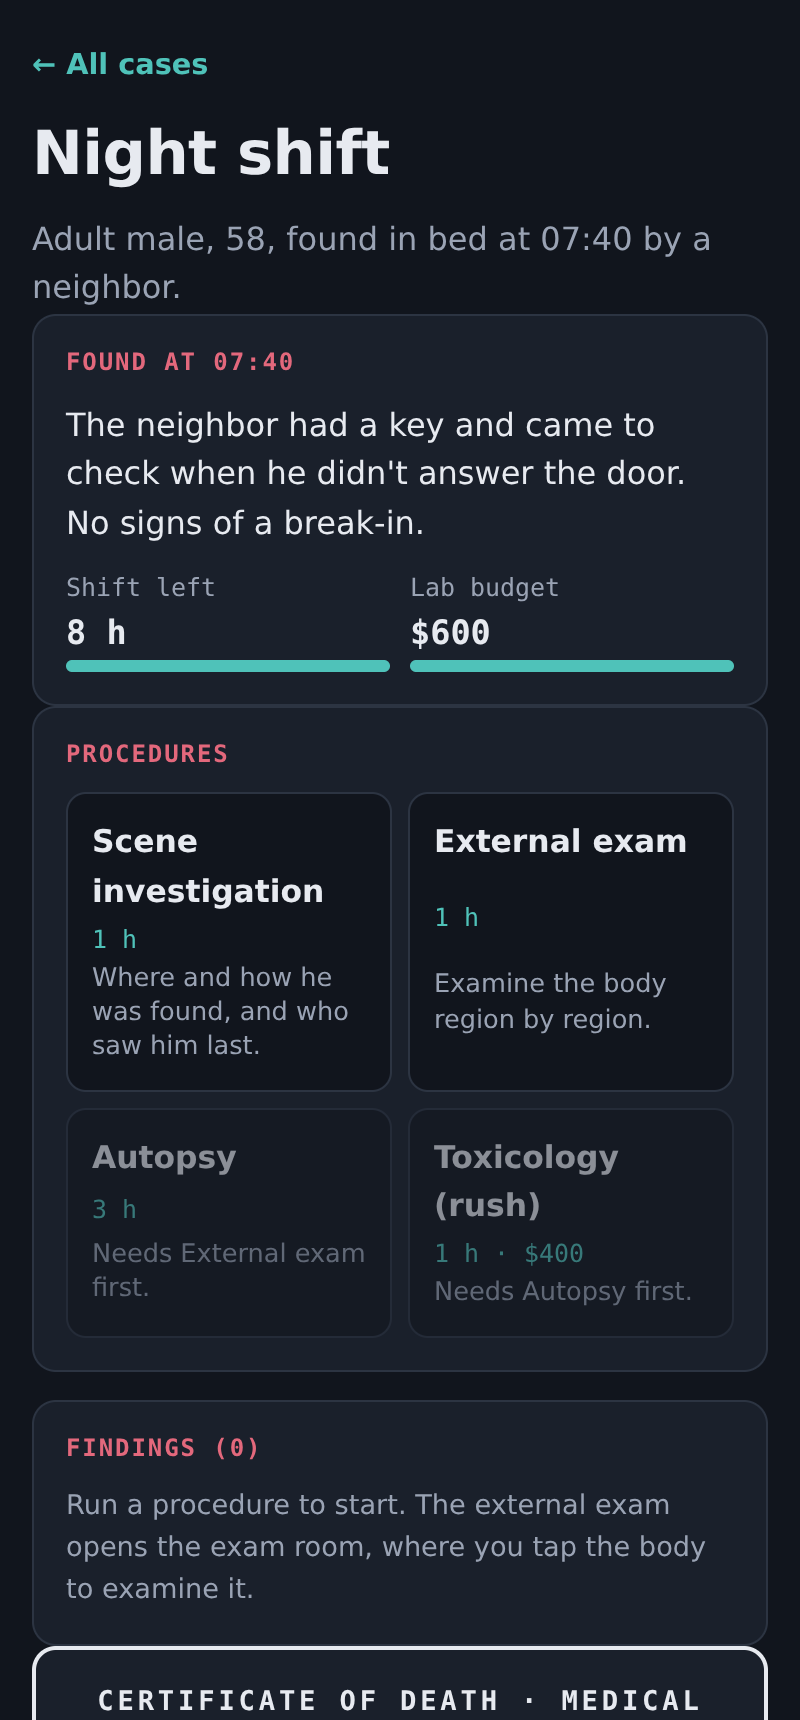
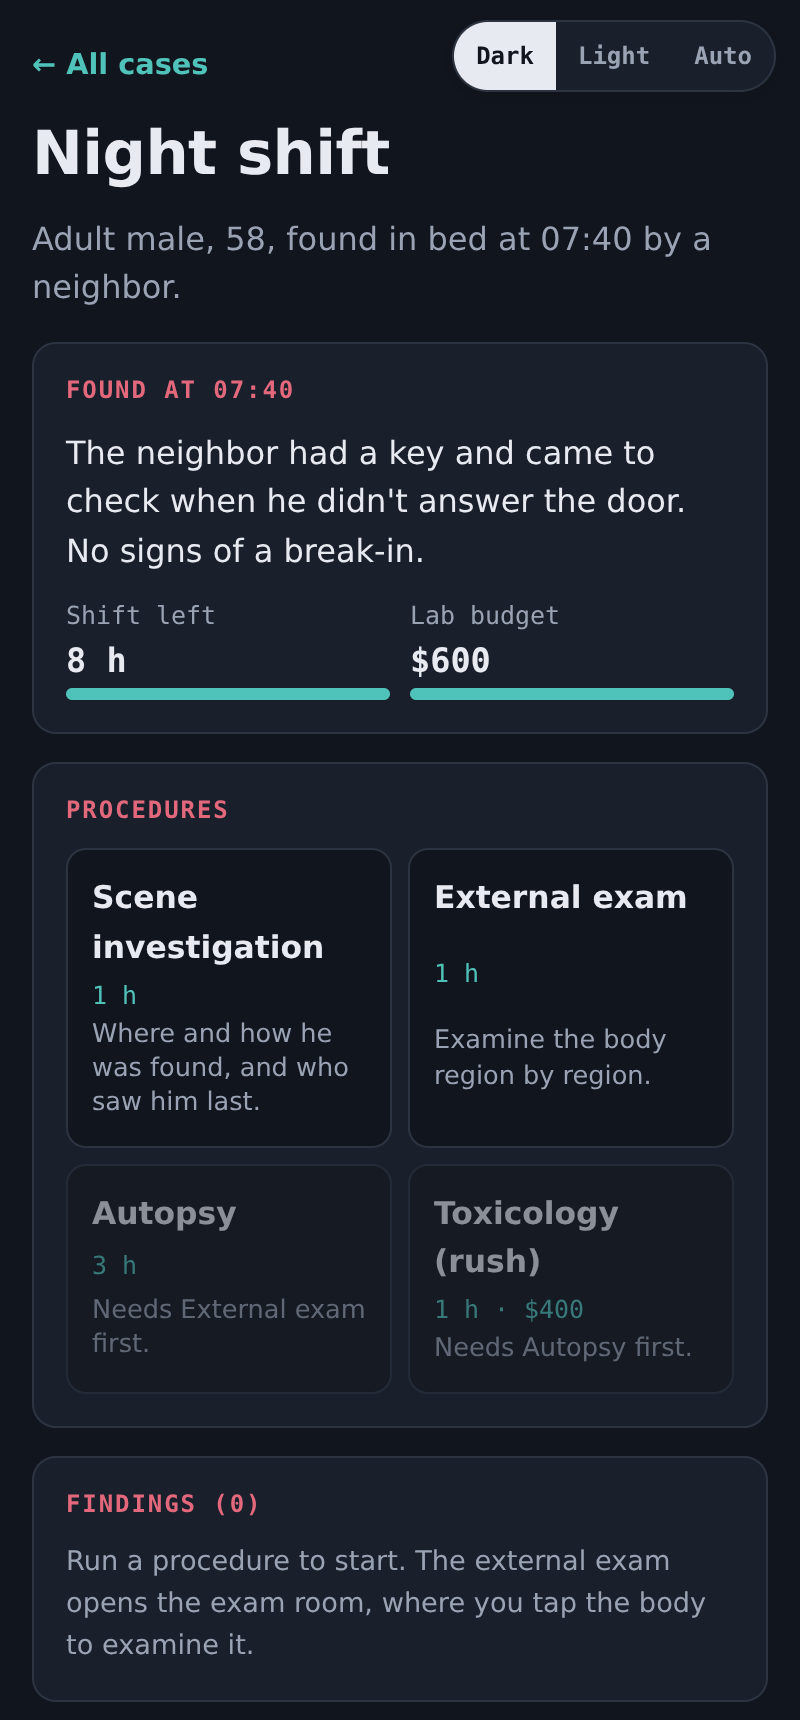
Dark mode by default with a theme switch, and wide layouts for desktop
Dark mode: every page now opens dark, with a Dark / Light / Auto switch in the top corner. The
choice is remembered in the browser, and each page's <head> applies it before first paint so
there's no flash. Auto follows the device. The stylesheet's dark tokens now apply under
data-theme="dark" as well as under the device setting (unless Light is chosen).

Wide layouts (960 px and up):
- Case page: the title spans the top; procedures and the 3D exam room sit in a left column that
  stays in view while you scroll; findings, the certificate and the debrief fill the right column.
- Home: cases on the left as one wide list; practice, skills and progress on the right.
- Drill: findings on the left, the evidence chart and window on the right (kept in view).
- Pages grow to 1240 px instead of stopping at 640; single-column widths stay at 720 px below
  960 px. Skill badges wrap.

The screenshot tools take --desktop and --light (case tool) and set the theme to match the colour
scheme they ask for. README shows the wide case page.

Claude-Session: https://claude.ai/code/session_01LYNeukH77ZrbGAEMLzoWWr

diff --git a/styles.css b/styles.css
@@ -8,8 +8,10 @@
   --mono: ui-monospace, "SFMono-Regular", Menlo, Consolas, monospace;
   color-scheme: light;
 }
+/* Theme: data-theme="dark" or "light" is set by the page's switch (dark by default); "system" leaves it
+   unset so the device's setting decides. */
 @media (prefers-color-scheme: dark) {
-  :root {
+  :root:not([data-theme="light"]) {
     --bg: #11151d; --card: #1a202b; --ink: #e7eaf0; --muted: #9aa3b4; --rule: #2c3442;
     --accent: #4fc2b9; --accent-soft: #163432; --mark: #e3687c; --mark-soft: #3a1e26;
     --ok: #6fd08e; --ok-soft: #173523; --bad: #f08b72; --bad-soft: #3b221b;
@@ -17,11 +19,19 @@
     color-scheme: dark;
   }
 }
+:root[data-theme="dark"] {
+  --bg: #11151d; --card: #1a202b; --ink: #e7eaf0; --muted: #9aa3b4; --rule: #2c3442;
+  --accent: #4fc2b9; --accent-soft: #163432; --mark: #e3687c; --mark-soft: #3a1e26;
+  --ok: #6fd08e; --ok-soft: #173523; --bad: #f08b72; --bad-soft: #3b221b;
+  --novice: #e7b65a; --practiced: #4fc2b9; --mastered: #6fd08e;
+  color-scheme: dark;
+}
 * { box-sizing: border-box; }
 [hidden] { display: none !important; }
 html, body { margin: 0; background: var(--bg); color: var(--ink); }
 body { font: 16px/1.55 var(--font); padding: env(safe-area-inset-top, 0px) max(16px, env(safe-area-inset-right, 0px)) 48px max(16px, env(safe-area-inset-left, 0px)); }
-#app { max-width: 640px; margin: 0 auto; display: grid; gap: 14px; }
+#app { max-width: 1240px; margin: 0 auto; display: grid; gap: 14px; }
+@media (max-width: 959px) { #app { max-width: 720px; } }
 :focus-visible { outline: 3px solid var(--accent); outline-offset: 2px; }
 p { margin: 0; }
 .top { display: grid; gap: 6px; padding-top: 18px; }
@@ -184,3 +194,26 @@ p { margin: 0; }
 a.btn { text-decoration: none; display: inline-flex; align-items: center; }
 .pose-chip { position: absolute; top: 10px; left: 10px; z-index: 2; padding: 6px 10px; border-radius: 999px; background: rgb(18 24 26 / 0.78); color: #e6eeee; font: 700 0.8rem/1 var(--mono); letter-spacing: 0.04em; pointer-events: none; }
 .list-mode .pose-chip { display: none; }
+
+/* ---------- theme switch ---------- */
+.theme-switch { position: absolute; top: calc(10px + env(safe-area-inset-top, 0px)); right: max(12px, env(safe-area-inset-right, 0px)); z-index: 25; display: inline-flex; border: 1px solid var(--rule); border-radius: 999px; overflow: hidden; background: var(--card); box-shadow: 0 2px 10px rgb(0 0 0 / 0.12); }
+.theme-switch button { font: 600 0.75rem/1 var(--mono); padding: 9px 11px; min-height: 34px; border: 0; background: transparent; color: var(--muted); cursor: pointer; }
+.theme-switch button[aria-pressed="true"] { background: var(--ink); color: var(--bg); }
+
+/* ---------- wide layouts (desktop and tablets in landscape) ---------- */
+.col { display: grid; gap: 14px; align-content: start; min-width: 0; }
+@media (min-width: 960px) {
+  .home-grid { display: grid; grid-template-columns: minmax(0, 7fr) minmax(0, 5fr); gap: 16px; align-items: start; }
+  .case-layout { display: grid; grid-template-columns: minmax(0, 5fr) minmax(0, 6fr); gap: 16px; align-items: start; }
+  .case-layout > #head { grid-column: 1 / -1; }
+  .case-layout .col-left { position: sticky; top: 12px; max-height: calc(100vh - 24px); overflow-y: auto; scrollbar-width: thin; padding-right: 2px; }
+  .case-layout .exam-stage { height: min(46vh, 420px); }
+  .case-layout .procs { grid-template-columns: repeat(2, minmax(0, 1fr)); }
+  .round { grid-template-columns: minmax(0, 6fr) minmax(0, 5fr); align-items: start; }
+  .round > .card:first-child { grid-column: 1 / -1; }
+  .round .tiles { grid-template-columns: repeat(2, minmax(0, 1fr)); align-self: start; }
+  .round > .card:last-child { position: sticky; top: 12px; }
+}
+@media (min-width: 1280px) {
+  .case-layout { grid-template-columns: minmax(0, 1fr) minmax(0, 1fr); }
+}

diff --git a/src/adapters/web/home.ts b/src/adapters/web/home.ts
@@ -40,7 +40,12 @@ export function startHome(root: HTMLElement, ports: HomePorts, notice?: string):
       list.append(a);
     });
     cs.append(list);
-    root.append(cs);
+    const grid = el("div", { class: "home-grid" });
+    const left = el("div", { class: "col" });
+    const rightCol = el("div", { class: "col" });
+    left.append(cs);
+    grid.append(left, rightCol);
+    root.append(grid);
 
     // Drill
     const due = dueCards(profile.cards, ports.today()).length;
@@ -55,22 +60,22 @@ export function startHome(root: HTMLElement, ports: HomePorts, notice?: string):
     dp.append(el("span", { class: due ? "pill mark" : "pill" }, due ? `${due} to review` : "Play"));
     da.append(ic, dt, dp);
     dr.append(da);
-    root.append(dr);
+    rightCol.append(dr);
 
     // Skills
     const sk = el("section", { class: "card" });
     sk.append(el("p", { class: "eyebrow" }, "Your skills"));
-    const grid = el("div", { class: "skillgrid" });
+    const skillGrid = el("div", { class: "skillgrid" });
     for (const s of ports.pack.skills) {
       const m = profile.skills[s.id] ?? "unknown";
       const cell = el("div", { class: "skill", title: `${s.name}: ${masteryLabel(m)}` });
       const b = el("span", { class: `badge m-${m}` });
       b.innerHTML = ICONS[s.icon] ?? "";
       cell.append(b, el("span", {}, s.name));
-      grid.append(cell);
+      skillGrid.append(cell);
     }
-    sk.append(grid, el("p", { class: "fine" }, "Grey: not learned yet · amber: novice · teal: practiced · green: mastered. You learn skills inside cases and the drill, when a finding needs them."));
-    root.append(sk);
+    sk.append(skillGrid, el("p", { class: "fine" }, "Grey: not learned yet · amber: novice · teal: practiced · green: mastered. You learn skills inside cases and the drill, when a finding needs them."));
+    rightCol.append(sk);
 
     // Progress
     const pr = el("section", { class: "card" });
@@ -99,7 +104,7 @@ export function startHome(root: HTMLElement, ports: HomePorts, notice?: string):
     });
     row.append(exp, imp, file);
     pr.append(row);
-    root.append(pr);
+    rightCol.append(pr);
 
     root.append(el("p", { class: "fine" }, `Content pack ${ports.pack.id} ${ports.pack.version}. Lessons cite their sources; time ranges are teaching approximations, not a reference for real casework. Code MIT, content CC BY-SA 4.0.`));
   }

diff --git a/src/adapters/web/theme.ts b/src/adapters/web/theme.ts
@@ -1,0 +1,50 @@
+// The theme switch: Dark (default), Light, or Auto (follow the device). The choice is remembered in
+// this browser. Each page's <head> applies the stored choice before first paint (see THEME_BOOT in
+// the HTML), so there's no flash of the wrong theme.
+const KEY = "casework.theme";
+type Theme = "dark" | "light" | "system";
+const LABEL: Record<Theme, string> = { dark: "Dark", light: "Light", system: "Auto" };
+
+function stored(): Theme {
+  try {
+    const t = localStorage.getItem(KEY);
+    return t === "light" || t === "system" ? t : "dark";
+  } catch {
+    return "dark";
+  }
+}
+
+function apply(t: Theme): void {
+  if (t === "system") delete document.documentElement.dataset.theme;
+  else document.documentElement.dataset.theme = t;
+  try {
+    localStorage.setItem(KEY, t);
+  } catch {
+    /* storage blocked: the choice lasts for this page only */
+  }
+}
+
+export function mountThemeSwitch(): void {
+  if (document.querySelector(".theme-switch")) return;
+  const box = document.createElement("div");
+  box.className = "theme-switch";
+  box.setAttribute("role", "group");
+  box.setAttribute("aria-label", "Colour theme");
+  const buttons = (["dark", "light", "system"] as Theme[]).map((t) => {
+    const b = document.createElement("button");
+    b.type = "button";
+    b.id = `theme-${t}`;
+    b.textContent = LABEL[t];
+    b.addEventListener("click", () => {
+      apply(t);
+      sync(t);
+    });
+    return b;
+  });
+  const sync = (cur: Theme) => buttons.forEach((b) => b.setAttribute("aria-pressed", String(b.id === `theme-${cur}`)));
+  box.append(...buttons);
+  document.body.append(box);
+  const cur = stored();
+  apply(cur);
+  sync(cur);
+}

diff --git a/case.html b/case.html
@@ -4,12 +4,15 @@
 <meta charset="utf-8">
 <meta name="viewport" content="width=device-width, initial-scale=1, viewport-fit=cover">
 <title>Casework</title>
+<script>try{var t=localStorage.getItem("casework.theme")||"dark";if(t!=="system")document.documentElement.dataset.theme=t;}catch(e){document.documentElement.dataset.theme="dark";}</script>
 <link rel="stylesheet" href="styles.css">
 <style> :root { --sk-loader-bg: #1d2426; --sk-loader-accent: #5bbdcc; } </style>
 </head>
 <body>
-<main id="app">
-  <div id="top"><p class="sub">Loading the case…</p></div>
+<main id="app" class="case-layout">
+  <div id="head"></div>
+  <div class="col col-left">
+  <div id="top" class="col"><p class="sub">Loading the case…</p></div>
   <section id="examPanel" class="card exam" hidden>
     <p class="eyebrow">Exam room</p>
     <div class="exam-stage">
@@ -25,7 +28,8 @@
     <div id="regions" role="group" aria-label="Body regions"></div>
     <p class="fine">Drag to look around, pinch or scroll to zoom, and tap the body to examine it, or use the region buttons. <span id="last" hidden></span></p>
   </section>
-  <div id="rest"></div>
+  </div>
+  <div id="rest" class="col col-right"></div>
 </main>
 <script src="engine/strata-loader.js"></script>
 <script src="engine/strata-kit.js"></script>

diff --git a/src/adapters/web/case-app.ts b/src/adapters/web/case-app.ts
@@ -129,9 +129,12 @@ export function startCaseApp(ports: CasePorts): void {
 
   function renderTop() {
     top.innerHTML = "";
-    const h = el("header", { class: "top" });
-    h.append(el("a", { href: "./", class: "back" }, "← All cases"), el("h1", {}, def.title), el("p", { class: "sub" }, def.intake));
-    top.append(h);
+    const head = document.getElementById("head");
+    if (head && !head.firstChild) {
+      const h = el("header", { class: "top" });
+      h.append(el("a", { href: "./", class: "back" }, "← All cases"), el("h1", {}, def.title), el("p", { class: "sub" }, def.intake));
+      head.append(h);
+    }
 
     const intro = el("section", { class: "card" });
     intro.append(el("p", { class: "eyebrow" }, `Found at ${clock(0)}`), el("p", {}, def.context));

diff --git a/drill.html b/drill.html
@@ -5,6 +5,7 @@
 <meta name="viewport" content="width=device-width, initial-scale=1, viewport-fit=cover">
 <title>Casework: time-of-death drill</title>
 <meta name="description" content="A medical examiner game where the forensic science is real. Time-of-death drill.">
+<script>try{var t=localStorage.getItem("casework.theme")||"dark";if(t!=="system")document.documentElement.dataset.theme=t;}catch(e){document.documentElement.dataset.theme="dark";}</script>
 <link rel="stylesheet" href="styles.css">
 </head>
 <body>

diff --git a/index.html b/index.html
@@ -5,6 +5,7 @@
 <meta name="viewport" content="width=device-width, initial-scale=1, viewport-fit=cover">
 <title>Casework</title>
 <meta name="description" content="A medical examiner game where the forensic science is real.">
+<script>try{var t=localStorage.getItem("casework.theme")||"dark";if(t!=="system")document.documentElement.dataset.theme=t;}catch(e){document.documentElement.dataset.theme="dark";}</script>
 <link rel="stylesheet" href="styles.css">
 </head>
 <body>

diff --git a/src/adapters/web/drill-main.ts b/src/adapters/web/drill-main.ts
@@ -3,6 +3,9 @@ import { startDrill } from "./drill-app.ts";
 import { loadPack } from "./content.ts";
 import { loadProfile, saveProfile } from "./storage.ts";
 import { randomSeed, today } from "./clock.ts";
+import { mountThemeSwitch } from "./theme.ts";
+
+mountThemeSwitch();
 
 /** `?seed=N` fixes the first body (for screenshots, bug reports and sharing a body). */
 function seedSource(): () => number {

diff --git a/src/adapters/web/case-main.ts b/src/adapters/web/case-main.ts
@@ -5,6 +5,9 @@ import { startCaseApp } from "./case-app.ts";
 import { loadPack } from "./content.ts";
 import { loadCaseProgress, loadProfile, saveCaseProgress, saveProfile } from "./storage.ts";
 import { today } from "./clock.ts";
+import { mountThemeSwitch } from "./theme.ts";
+
+mountThemeSwitch();
 
 const $ = <T extends HTMLElement>(id: string) => document.getElementById(id) as T;
 

diff --git a/src/adapters/web/home-main.ts b/src/adapters/web/home-main.ts
@@ -3,6 +3,9 @@ import { loadPack } from "./content.ts";
 import { loadProfile, saveProfile } from "./storage.ts";
 import { today } from "./clock.ts";
 import { startHome } from "./home.ts";
+import { mountThemeSwitch } from "./theme.ts";
+
+mountThemeSwitch();
 
 async function boot() {
   const root = document.getElementById("app");

diff --git a/README.md b/README.md
@@ -38,6 +38,14 @@ window that scores best when it is both right and tight.
   scores time (right and tight), cause, manner, reasoning (did your links hold?) and efficiency,
   shows who the person was and what happened, and turns mistakes into review cards.
 
+On a wide screen the exam room and procedures stay on the left while the findings, certificate and
+debrief fill the right:
+
+<img src="docs/media/desktop-case-6-debrief.png" alt="A signed case on a desktop: the 3D exam room and procedures on the left, the certificate and a 12 of 12 debrief on the right" width="820">
+
+Every page opens in dark mode, with a Dark / Light / Auto switch in the corner that's remembered
+in the browser.
+
 The tone is clinical and non-graphic: a stylized, faceless mannequin, injuries described in words,
 and a respectful line about each person.
 
